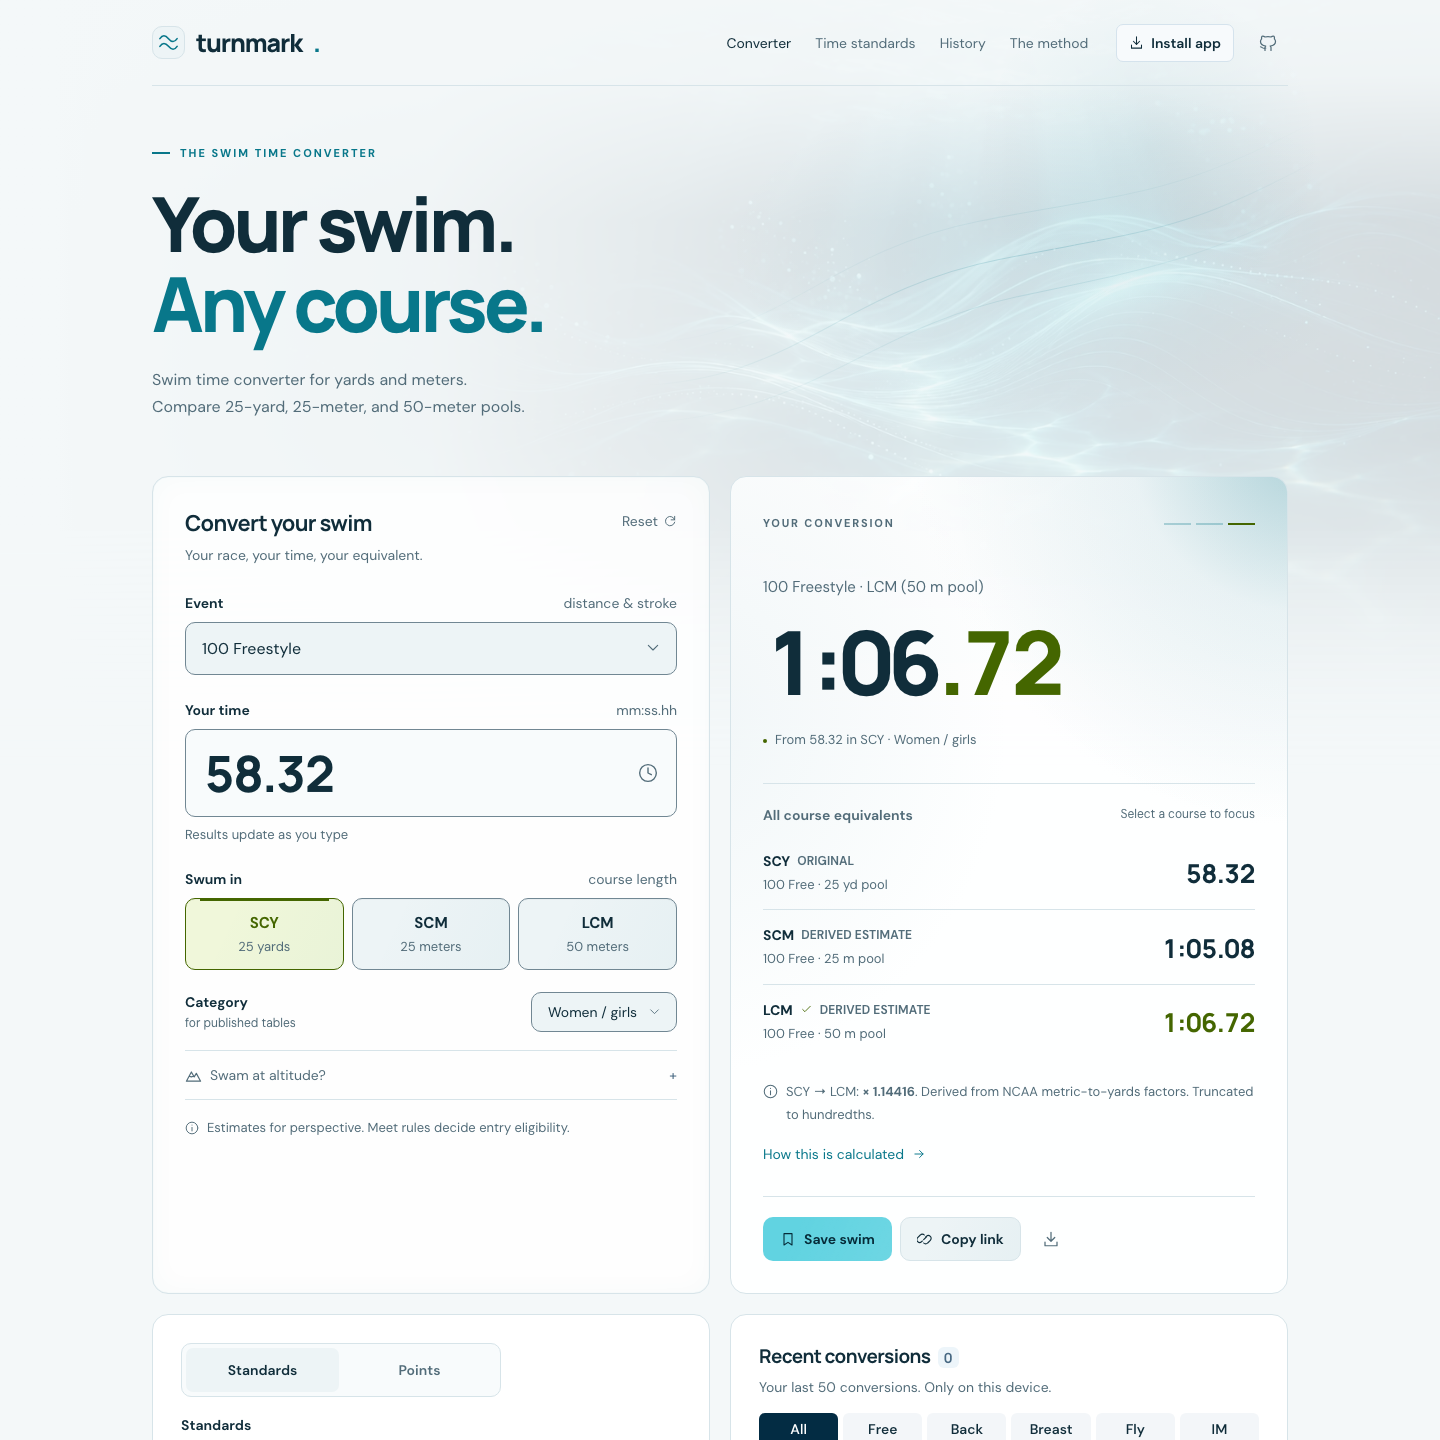
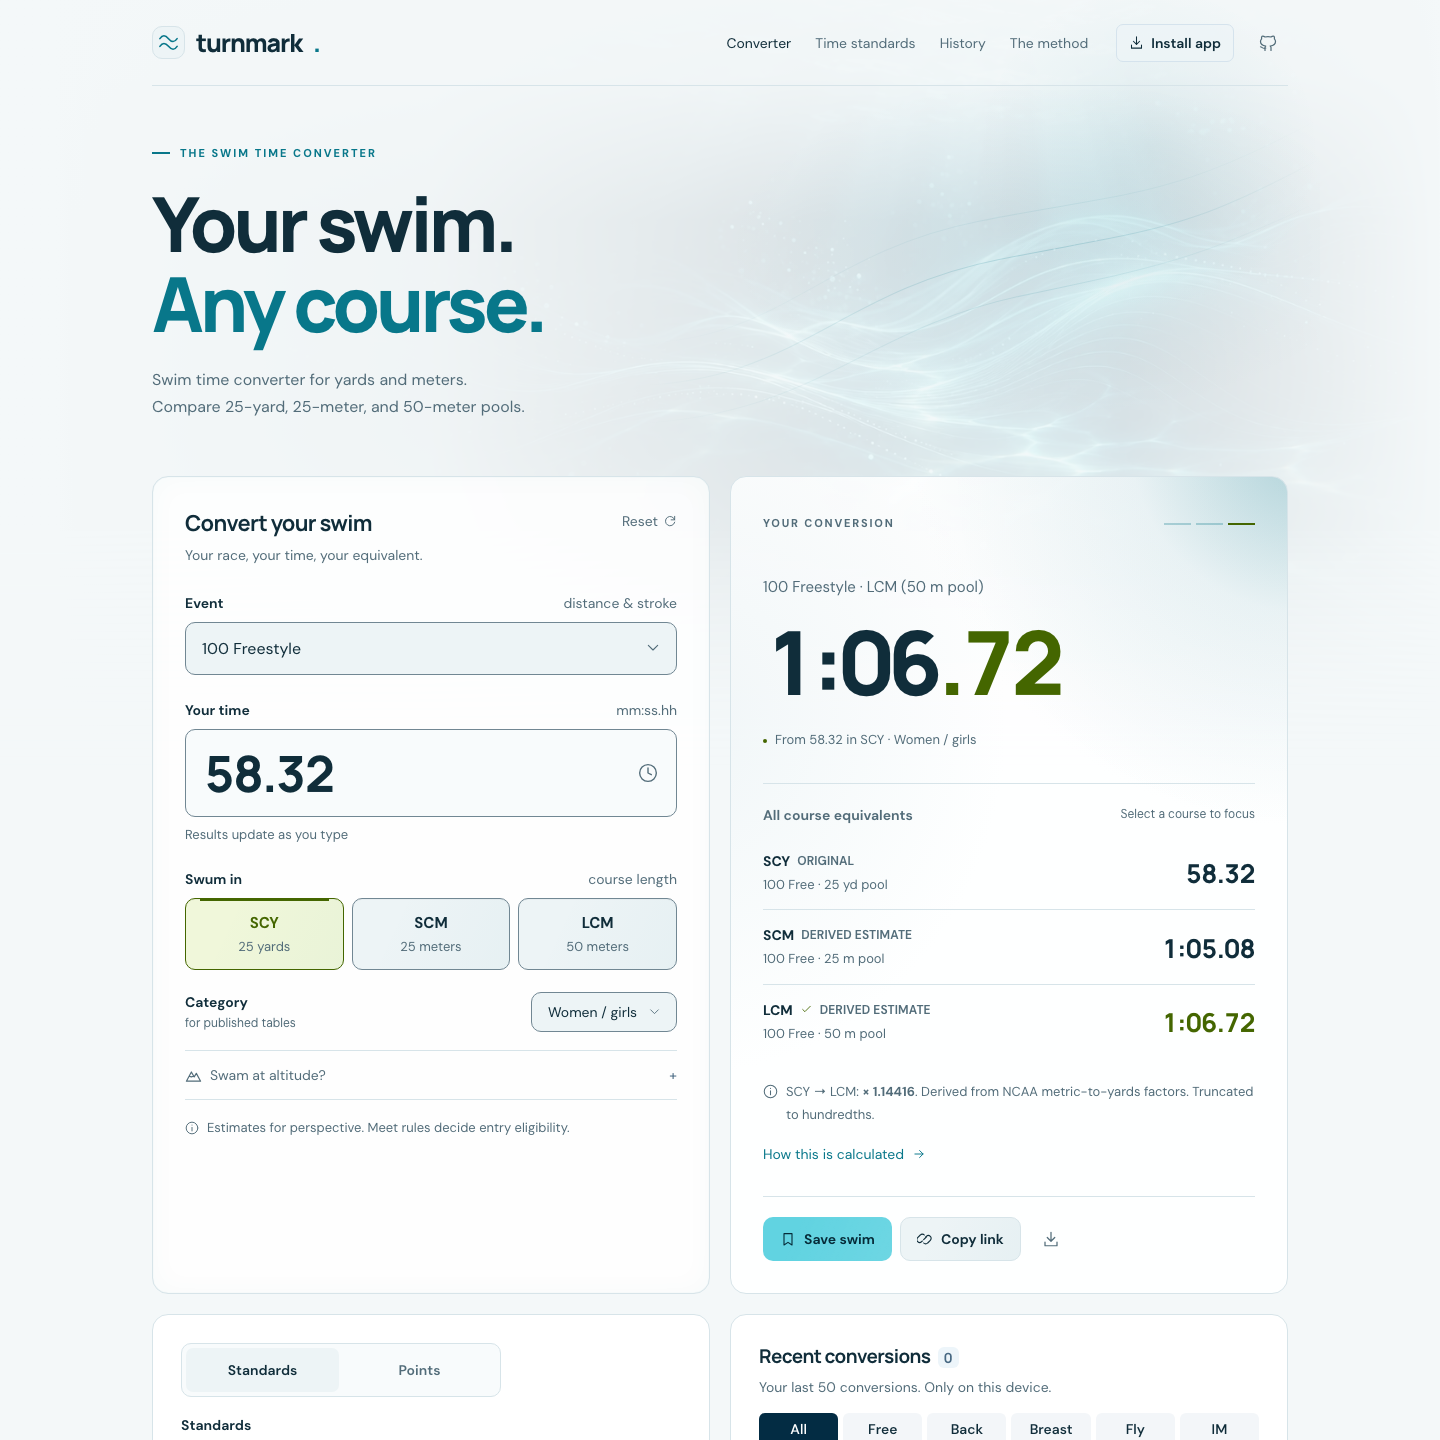
Center the water artwork and soften the install action

Changed region(s): [[0.9375, 0.125, 1.0, 0.3438]]

diff --git a/src/app.css b/src/app.css
@@ -1696,7 +1696,7 @@ footer > span > a {
   padding: 9px 12px;
   border: 1px solid #d5e3ed;
   border-radius: 7px;
-  background: #f7fafc;
+  background: color-mix(in srgb, var(--surface-raised) 82%, transparent);
   font-size: 14px;
   font-weight: 600;
   white-space: nowrap;
@@ -2064,7 +2064,7 @@ footer > span > a {
   color: #a8c9de;
 }
 [data-theme="dark"] .install-button {
-  background: #183549;
+  background: color-mix(in srgb, var(--surface-raised) 82%, transparent);
   border-color: #3b596f;
   color: #ddecf5;
 }

diff --git a/src/converter.css b/src/converter.css
@@ -26,10 +26,13 @@
 }
 .hero-atmosphere {
   position: absolute;
-  inset: 0 0 auto;
+  inset: 0 auto auto 50%;
+  width: min(100%, 1672px);
+  transform: translateX(-50%);
   height: 780px;
   pointer-events: none;
   background:
+    linear-gradient(90deg, transparent 78%, var(--page)),
     linear-gradient(
       180deg,
       color-mix(in srgb, var(--page) 95%, transparent),

diff --git a/docs/WEB_SURFACES_REVIEW.md b/docs/WEB_SURFACES_REVIEW.md
@@ -4,7 +4,9 @@ The converter header combines a static water-light background with three faint
 open SVG currents. The user-supplied `Luminous Underwater Wave Ribbons.png`
 (1672 × 941) is encoded as `public/images/water-ribbons.webp` with cwebp quality 88,
 method 6 and metadata removed: 80,280 bytes. The original PNG is untouched.
-The darker blend behind navigation and copy preserves readability; light mode
+Artwork is centered and capped at its natural 1672-pixel width, with a fading
+outer edge instead of scaling up on wide screens. The darker blend behind
+navigation and copy preserves readability; light mode
 uses a much fainter treatment. The background is included in the offline build.
 
 The open currents fade in over 2.8 seconds, then stay still; reduced motion shows
@@ -14,7 +16,7 @@ shader, new dependency or calculation change is involved.
 
 The input card has a very subtle symmetric inner-edge glow. Both cards are
 slightly translucent; the result retains the stronger upper-corner radial light.
-Controls keep solid readable surfaces. The conversion card keeps a static,
+Input fields keep solid readable surfaces; Install app has a slightly translucent fill. The conversion card keeps a static,
 slightly brighter default glow with no container hover/focus effect. Fine-pointer
 hover and keyboard focus on action/course buttons add a faint sheen and glow;
 reduced motion disables those transitions. Course rows have a wider rounded
@@ -28,7 +30,7 @@ controls have a named Appearance landmark.
 
 Validation: Svelte/TypeScript; unit, browser and production suites; direct
 Chromium and WebKit checks in light/dark with no Axe violations, stable hover
-bounds, all three indicator states, 320–1440-pixel layouts without horizontal
+bounds, all three indicator states, 320–3440-pixel layouts without horizontal
 overflow, reduced motion and finite animation. Screenshots use actual calculated
 values, not illustrative conversion ratios. This web-only change needs no native
 rebuild.
